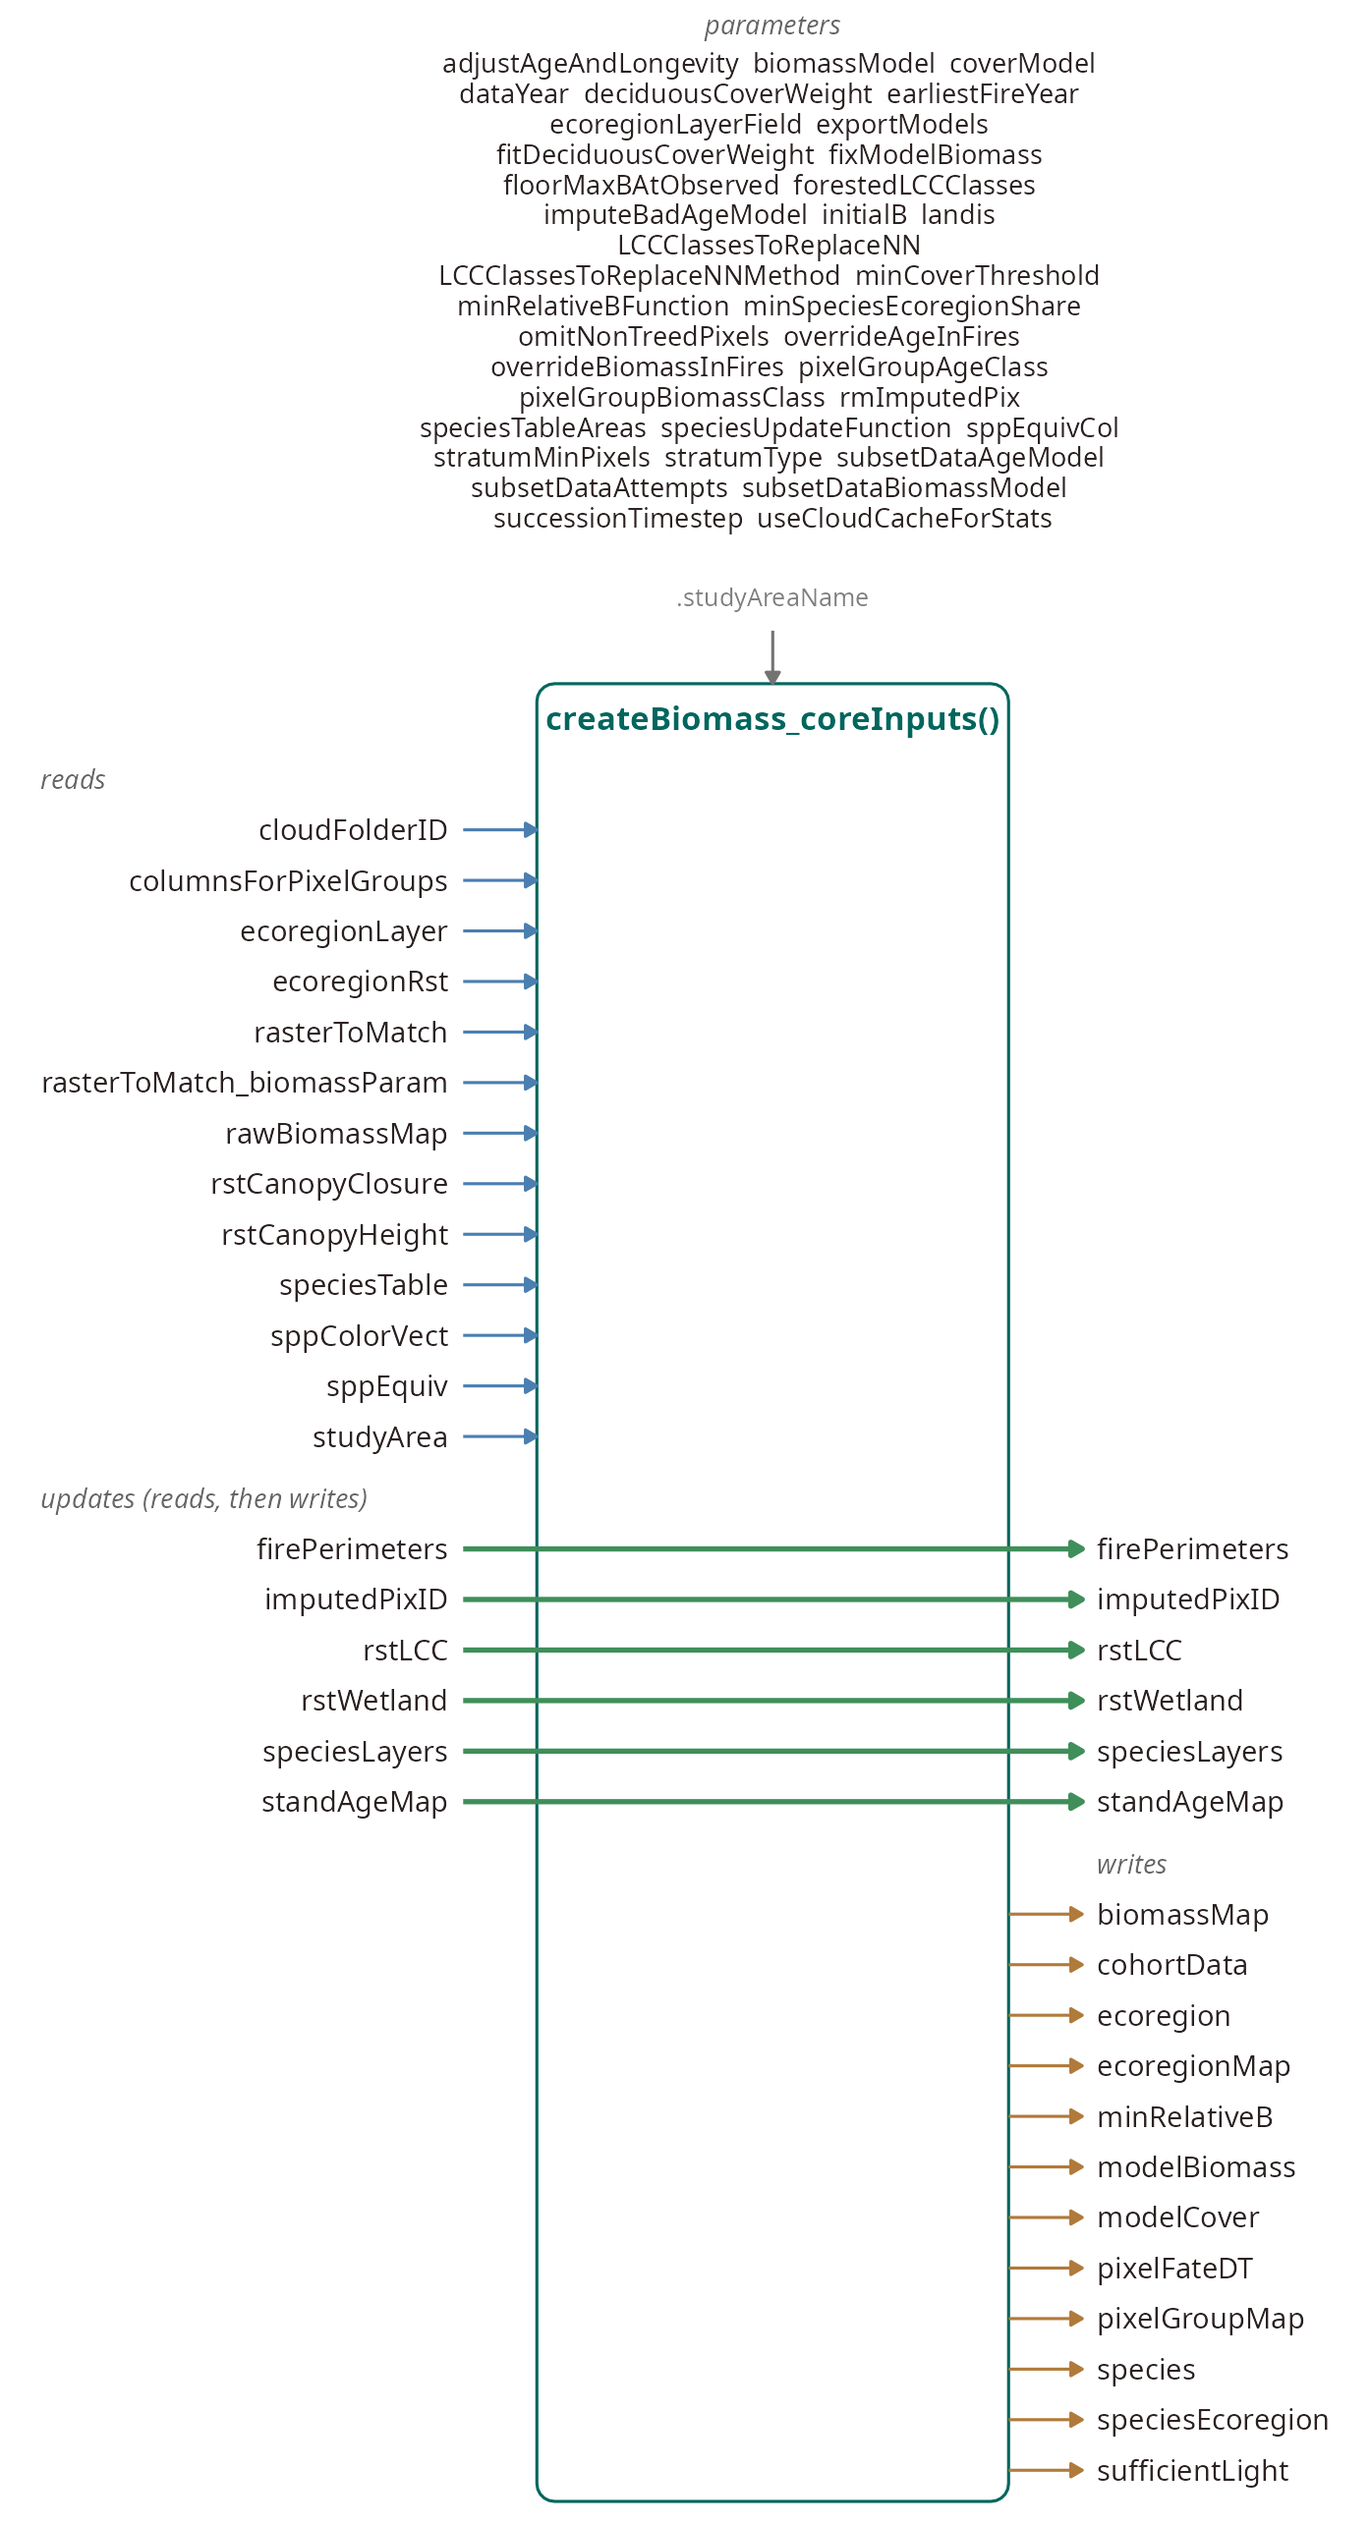
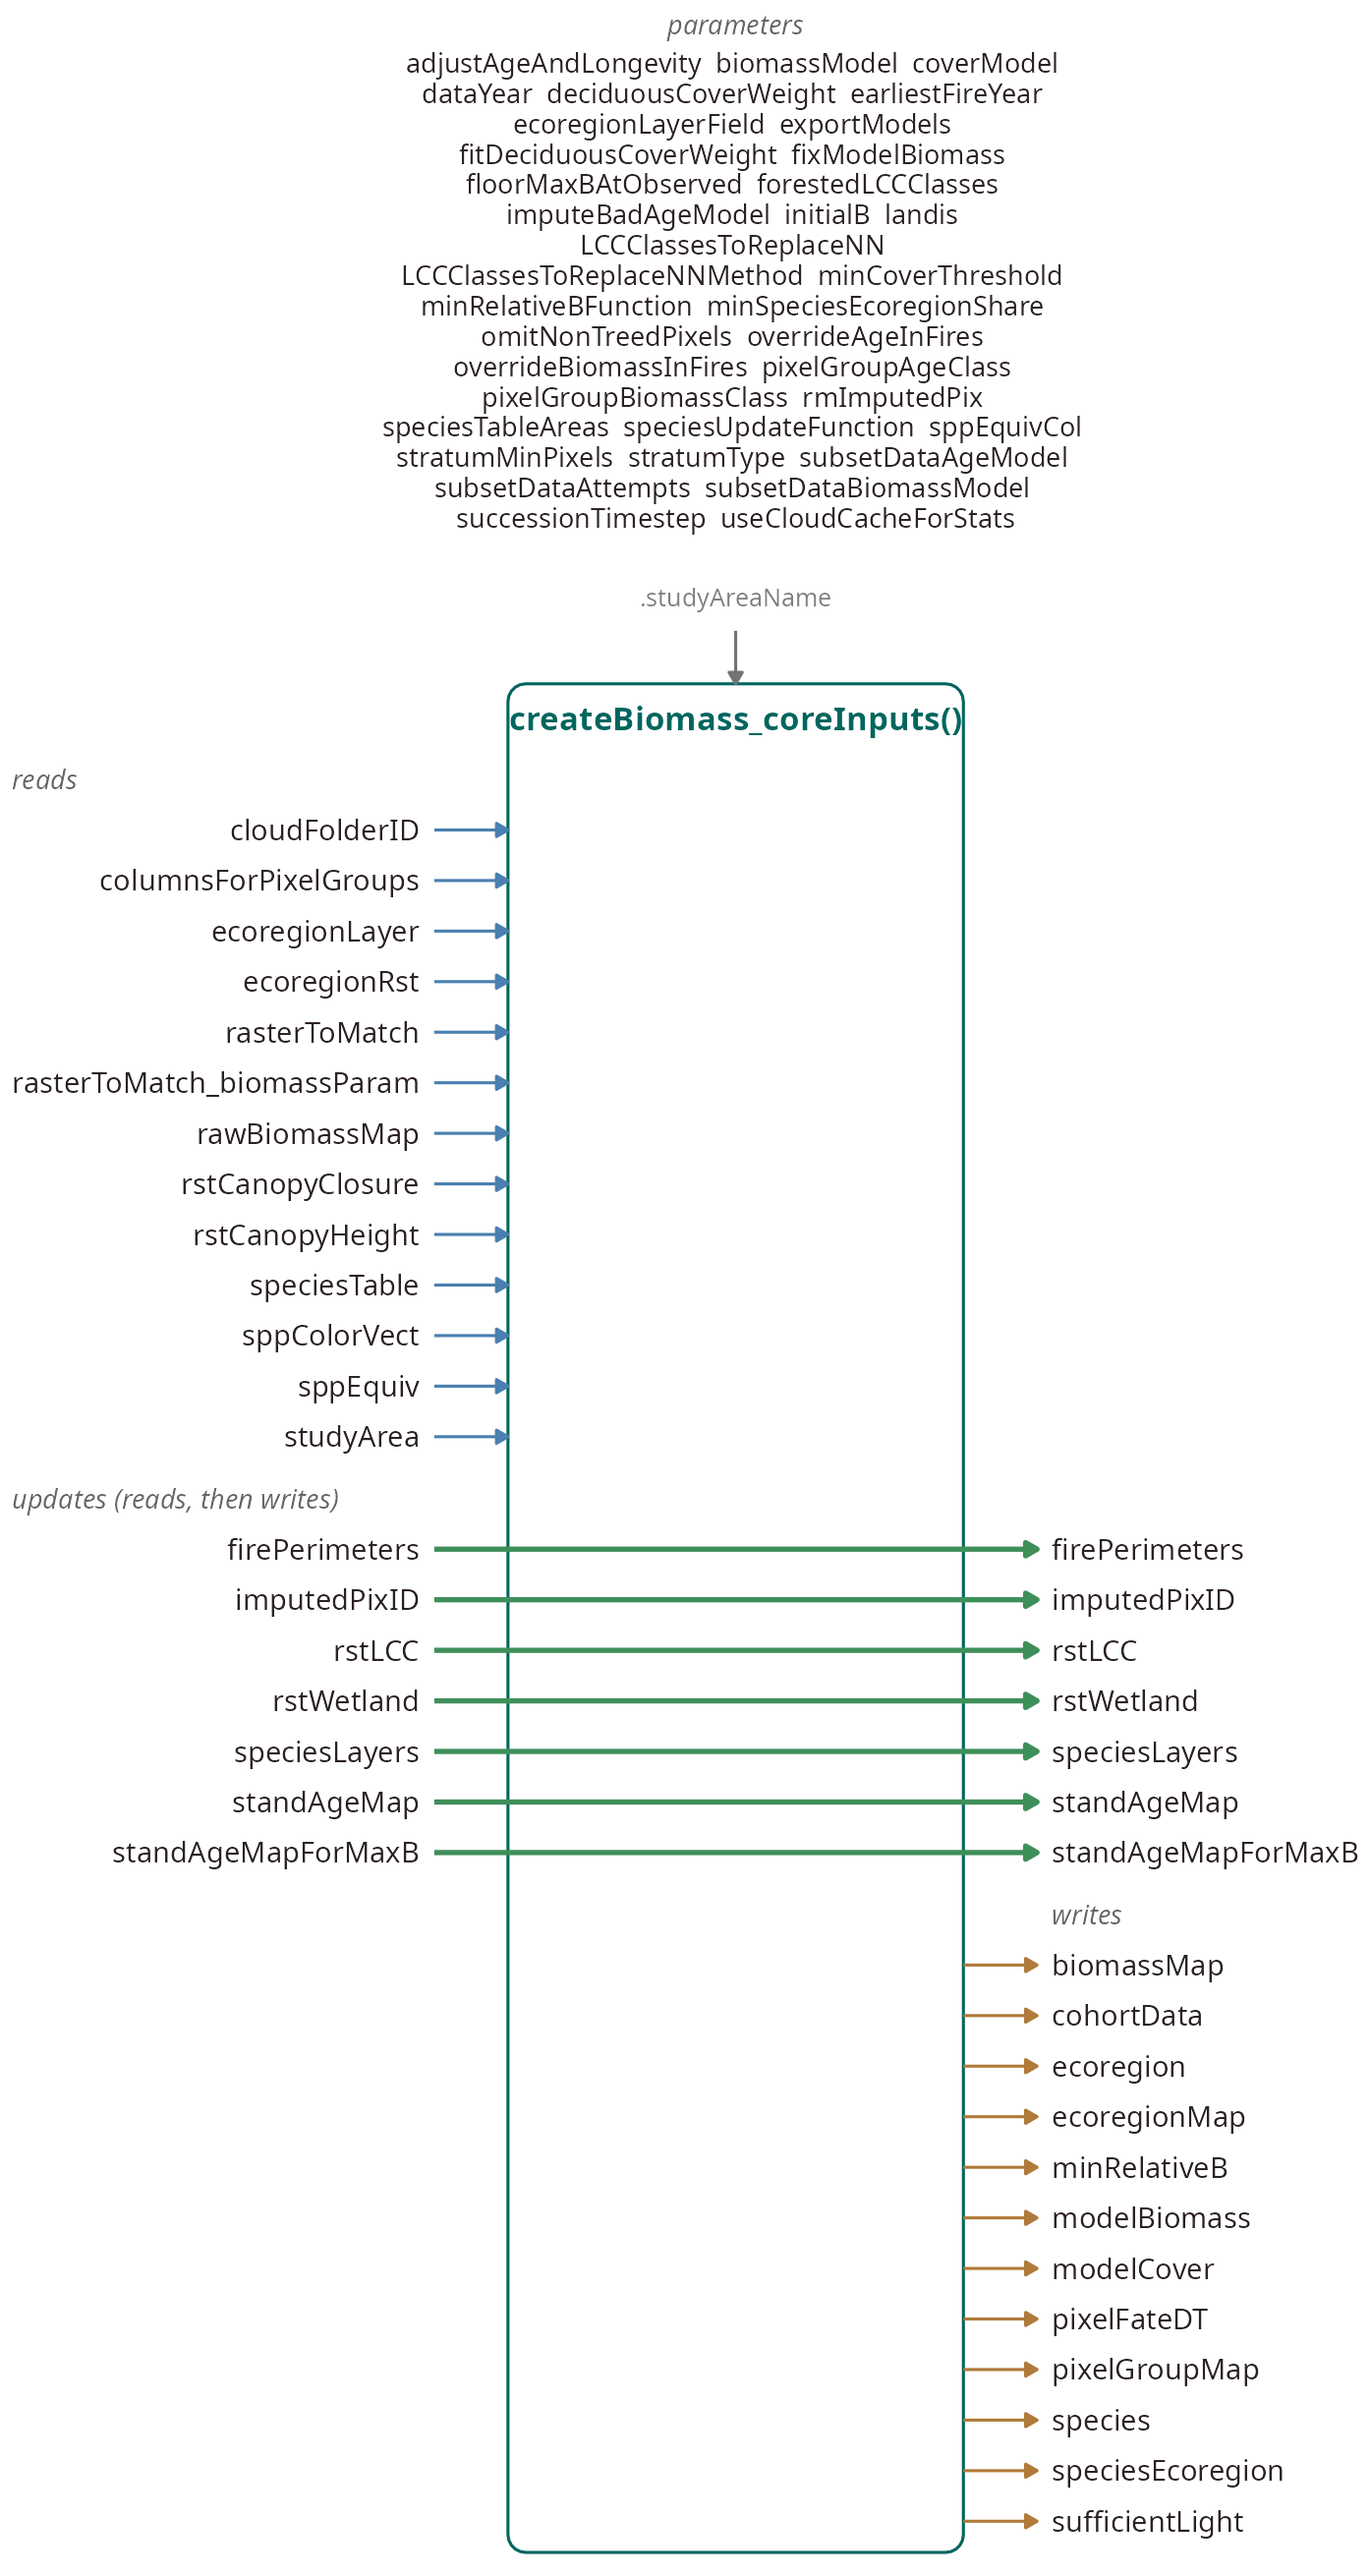
Re-build Biomass_borealDataPrep.Rmd

Changed region(s): [[0.0308, 0.0, 0.9556, 0.9961], [0.9556, 0.716, 0.9864, 0.7471], [0.0308, 0.2802, 0.0616, 0.3113]]

diff --git a/Biomass_borealDataPrep.md b/Biomass_borealDataPrep.md
@@ -1,6 +1,6 @@
 ---
 title: "LandR _Biomass_borealDataPrep_ Manual"
-date: "Last updated: 2026-11-24"
+date: "Last updated: 2026-11-25"
 output:
   bookdown::html_document2:
     toc: true
@@ -38,11 +38,10 @@ always_allow_html: true
 
 
 
-[![module-version-Badge](figures/moduleVersionBadge.png)](https://github.com/PredictiveEcology/Biomass_borealDataPrep43c77a83f025175659b3c28d5bf4fa8efd8f8e7c)
+[![module-version-Badge](figures/moduleVersionBadge.png)](https://github.com/FOR-CAST/Biomass_borealDataPrep/commit/f2573d01e2c6f15e5184e6f1dac21cfec477c7b4)
 
 [![Issues-badge](figures/issuesBadge.png)](https://github.com/PredictiveEcology/Biomass_borealDataPrep/issues)
 
-<!-- if knitting to pdf remember to add the pandoc_args: ["--extract-media", "."] option to yml in order to get the badge images -->
 
 #### Authors:
 
@@ -199,7 +198,7 @@ layer versions `studyArea_biomassParam` and `studyArea` (`rasterToMatch_biomassP
 
 *Biomass_borealDataPrep* uses land-cover data to define and assign parameter
 values to the pixels where forest dynamics will be simulated (forested pixels).
-By default it uses land-cover classes derived from the Spatialized Canadian National Forest Inventory [`SCANFI`; @Guindon2023, @Guindon2024], a raster-based database that distinguishes several forest and non-forest land-cover types.
+By default it uses land-cover classes derived from the Spatialized Canadian National Forest Inventory [`SCANFI`; @Guindon2023; @Guindon2024], a raster-based database that distinguishes several forest and non-forest land-cover types.
 The original SCANFI LCC codes are substituted with their corresponding values according to the National Terrestrial Ecosystem Monitoring System for Canada Land Cover [`NTEMS`; @Hermosilla2022] classification.
 Pixels with classes 81, 210, 220, 230, and 240 are included as forested pixels (see parameter `forestedLCCClasses`).
 
@@ -230,13 +229,13 @@ ensures that:
     `rasterToMatch_biomassParam`;
 3.  species with no cover values above 10(ref:percent) are excluded.
 
-By default it uses species (ref:percent) cover rasters derived from the Spatialized Canadian National Forest Inventory [`SCANFI`; @Guindon2023, @Guindon2024] -- hereafter 'SCANFI species data'.
+By default it uses species (ref:percent) cover rasters derived from the Spatialized Canadian National Forest Inventory [`SCANFI`; @Guindon2023; @Guindon2024] -- hereafter 'SCANFI species data'.
 
 #### Initial species age and biomass per pixel {#bboreal-init-B-age}
 
 Stand age and aboveground stand biomass (hereafter 'stand biomass') are used to derive parameters and define initial species age and biomass across the
 landscape.
-These are also derived from SCANFI [@Guindon2023, @Guindon2024] by default.
+These are also derived from SCANFI [@Guindon2023; @Guindon2024] by default.
 
 *Biomass_borealDataPrep* downloads these data and performs a number of data
 harmonization operations to deal with data inconsistencies.
@@ -303,6 +302,9 @@ All specie start with age = 0 and biomass = 0, and grow until time since last fi
 The resulting species biomass is used as the initial biomass values for each species cohort in the actual simulation.
 
 If the user does not want to perform this imputation, this step can be bypassed by setting the parameter `P(sim)$overrideBiomassInFires` to `FALSE` or `P(sim)$fireURL` to `NULL` or `NA`.
+
+Whenever `P(sim)$overrideAgeInFires` is `TRUE`, ages up to `dataYear - earliestFireYear`, the ages fire records can date, are kept exact rather than rounded to `P(sim)$pixelGroupAgeClass`, also when the biomass spin-up is skipped.
+Rounding them would put stands younger than half an age class at age 0, and *Biomass_core* adds no year to an age-0 cohort: it stays at 0 until the first age reclassification, `successionTimestep` years in, sets it to `successionTimestep + 1`.
 
 Also pixels that suffered *any kind* of data imputation (e.g., the age
 corrections detailed in the [previous section](#bboreal-init-B-age)) can be
@@ -471,6 +473,12 @@ log-age (the log of species longevity). When using *Biomass_speciesParameters*,
 `maxB` is calibrated so that species can achieve the maximum observed biomass
 during the simulation (see [Calibrating species growth/mortality traits using
 *Biomass_speciesParameters*](#bboreal-B_sppParams-calib)).
+
+The age covariate of this model is each cohort's age from `standAgeMap`, unless the optional input `standAgeMapForMaxB` is supplied.
+The model is then fitted with that layer's age instead, and nothing else uses it: cohort ages, `cohortData` and the strata keep `standAgeMap`.
+This lets the fit use the age product made with the biomass map whose values it fits (for SCANFI, its own stand age) when the cohorts start from another stand age.
+Cohorts with no age, or age 0, in `standAgeMapForMaxB` are left out of the fit.
+An `ecoregionGroup` in which no cohort has an age in `standAgeMapForMaxB` is fitted with its cohorts' age in `standAgeMap` instead, under the same rule, because `maxB` cannot be predicted for a group the fit has no data for.
 
 `maxANPP` is the calculated as `maxB * mANPPproportion/100`, where
 `mANPPproportion` defaults to 3.33, unless calibrated by
@@ -895,6 +903,12 @@ and *Biomass_core* manual for further detail about these columns.
    <td style="text-align:left;"> NA </td>
   </tr>
   <tr>
+   <td style="text-align:left;"> standAgeMapForMaxB </td>
+   <td style="text-align:left;"> SpatRaster </td>
+   <td style="text-align:left;"> Optional stand age map used only as the age covariate of `P(sim)$biomassModel`, the fit that gives `maxB` and `maxANPP`; the cohorts' ages, `cohortData` and everything else keep `standAgeMap`. It lets the fit use the age product made with `rawBiomassMap` (e.g. SCANFI's) while the cohorts start from another stand age. `sim$modelBiomass` is then this fit, and a cohort with no `B` is filled from it using its own age. On the grid of `rasterToMatch_biomassParam` (it is postProcessed to it otherwise). Cohorts whose pixel has no age, or age 0, in it are left out of the fit, except in an `ecoregionGroup` where no cohort has an age in it: those cohorts are fitted with their age in `standAgeMap`, under the same rule. Not supplied (the default): the fit uses `standAgeMap`. </td>
+   <td style="text-align:left;"> NA </td>
+  </tr>
+  <tr>
    <td style="text-align:left;"> studyArea </td>
    <td style="text-align:left;"> sf </td>
    <td style="text-align:left;"> `sf` polygon or terra `SpatVector` to use as the study area - `nrow` must be one </td>
@@ -1197,7 +1211,7 @@ Of these parameters, the following are particularly important:
    <td style="text-align:left;"> TRUE </td>
    <td style="text-align:left;"> NA </td>
    <td style="text-align:left;"> NA </td>
-   <td style="text-align:left;"> should stand age values inside fire perimeters be replaced with number of years since last fire? </td>
+   <td style="text-align:left;"> should stand age values inside fire perimeters be replaced with number of years since last fire? If `TRUE`, cohort ages up to `dataYear - earliestFireYear`, the ages fire records can date, are also kept exact rather than rounded to `P(sim)$pixelGroupAgeClass`, whatever `P(sim)$overrideBiomassInFires` is. </td>
    <td style="text-align:left;"> TRUE </td>
   </tr>
   <tr>
@@ -1215,7 +1229,7 @@ Of these parameters, the following are particularly important:
    <td style="text-align:left;">  </td>
    <td style="text-align:left;"> NA </td>
    <td style="text-align:left;"> NA </td>
-   <td style="text-align:left;"> When assigning `pixelGroup` membership, this defines the resolution of ages that will be considered 'the same pixelGroup', e.g., if it is 10, then 6 and 14 will be the same </td>
+   <td style="text-align:left;"> When assigning `pixelGroup` membership, this defines the resolution of ages that will be considered 'the same pixelGroup', e.g., if it is 10, then 6 and 14 will be the same. With `P(sim)$overrideAgeInFires`, ages up to `dataYear - earliestFireYear` are not rounded. </td>
    <td style="text-align:left;"> TRUE </td>
   </tr>
   <tr>
@@ -1628,7 +1642,7 @@ Table \@ref(tab:eventObjects-Biomass-borealDataPrep) lists, for each object, the
   </tr>
  </thead>
 <tbody>
-  <tr grouplength="16"><td colspan="3" style="border-bottom: 1px solid;"><strong>Inputs</strong></td></tr>
+  <tr grouplength="17"><td colspan="3" style="border-bottom: 1px solid;"><strong>Inputs</strong></td></tr>
 <tr>
    <td style="text-align:left;padding-left: 2em;" indentlevel="1"> sppNameVector </td>
    <td style="text-align:left;"> .inputObjects (default) </td>
@@ -1703,6 +1717,11 @@ Table \@ref(tab:eventObjects-Biomass-borealDataPrep) lists, for each object, the
    <td style="text-align:left;padding-left: 2em;" indentlevel="1"> sppEquiv </td>
    <td style="text-align:left;"> .inputObjects (default) </td>
    <td style="text-align:left;"> init: createBiomass_coreInputs() </td>
+  </tr>
+  <tr>
+   <td style="text-align:left;padding-left: 2em;" indentlevel="1"> standAgeMapForMaxB </td>
+   <td style="text-align:left;"> init: createBiomass_coreInputs() </td>
+   <td style="text-align:left;">  </td>
   </tr>
   <tr>
    <td style="text-align:left;padding-left: 2em;" indentlevel="1"> studyArea </td>
